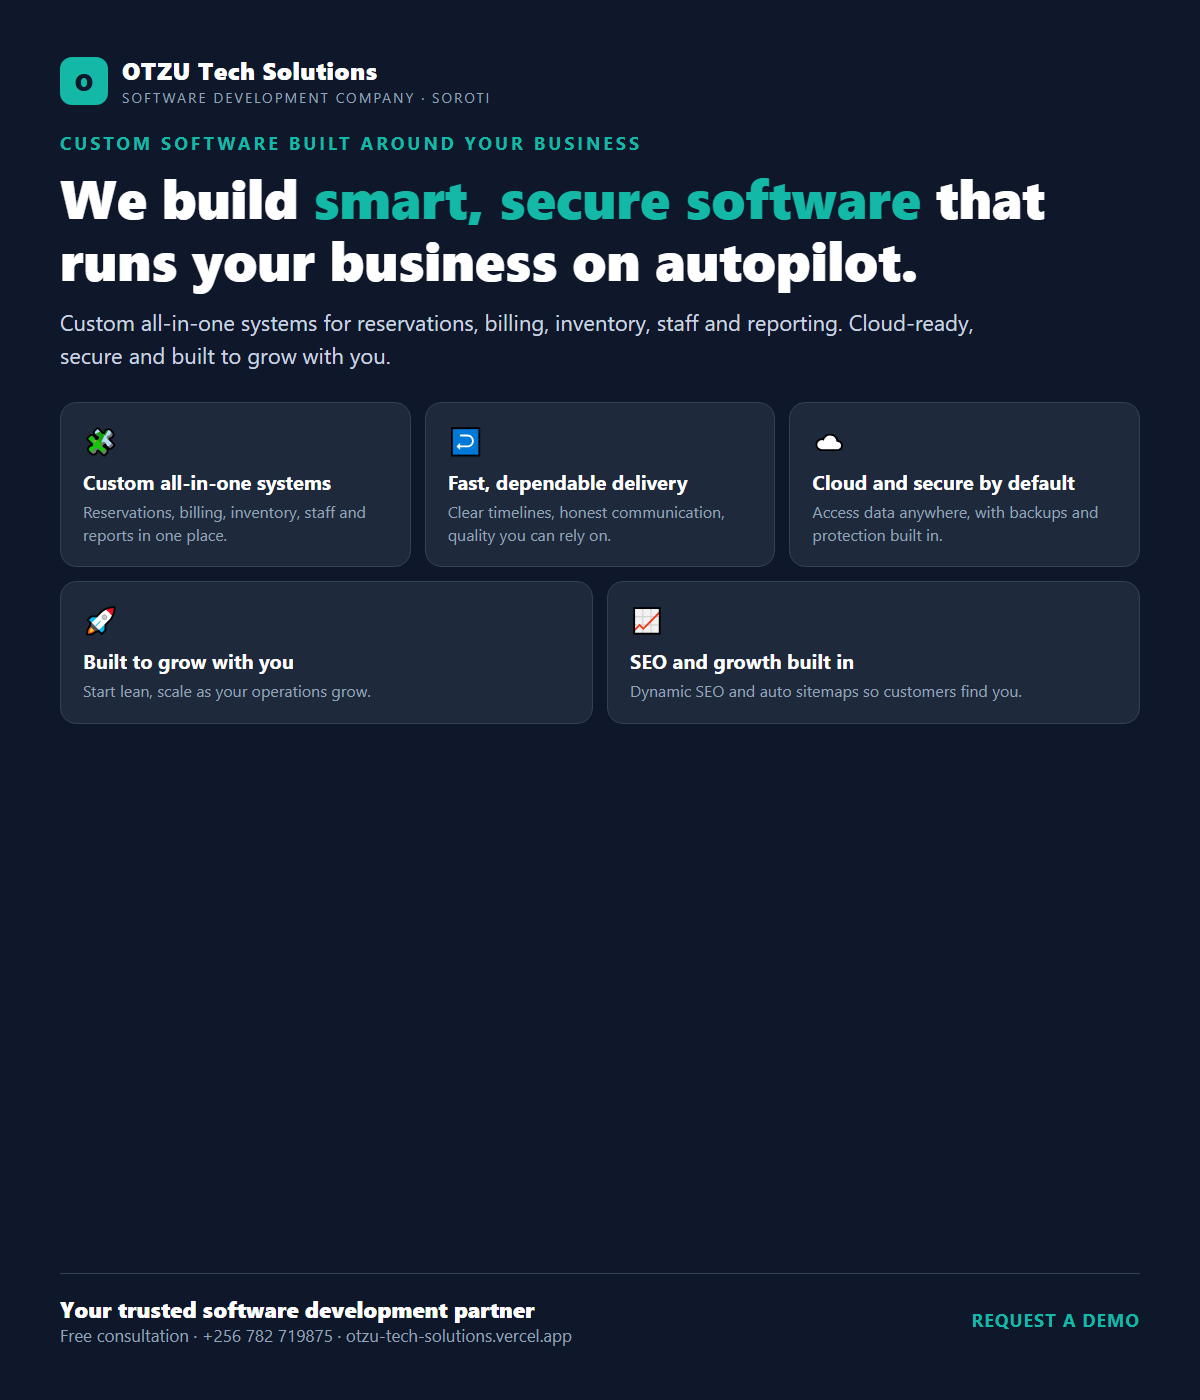
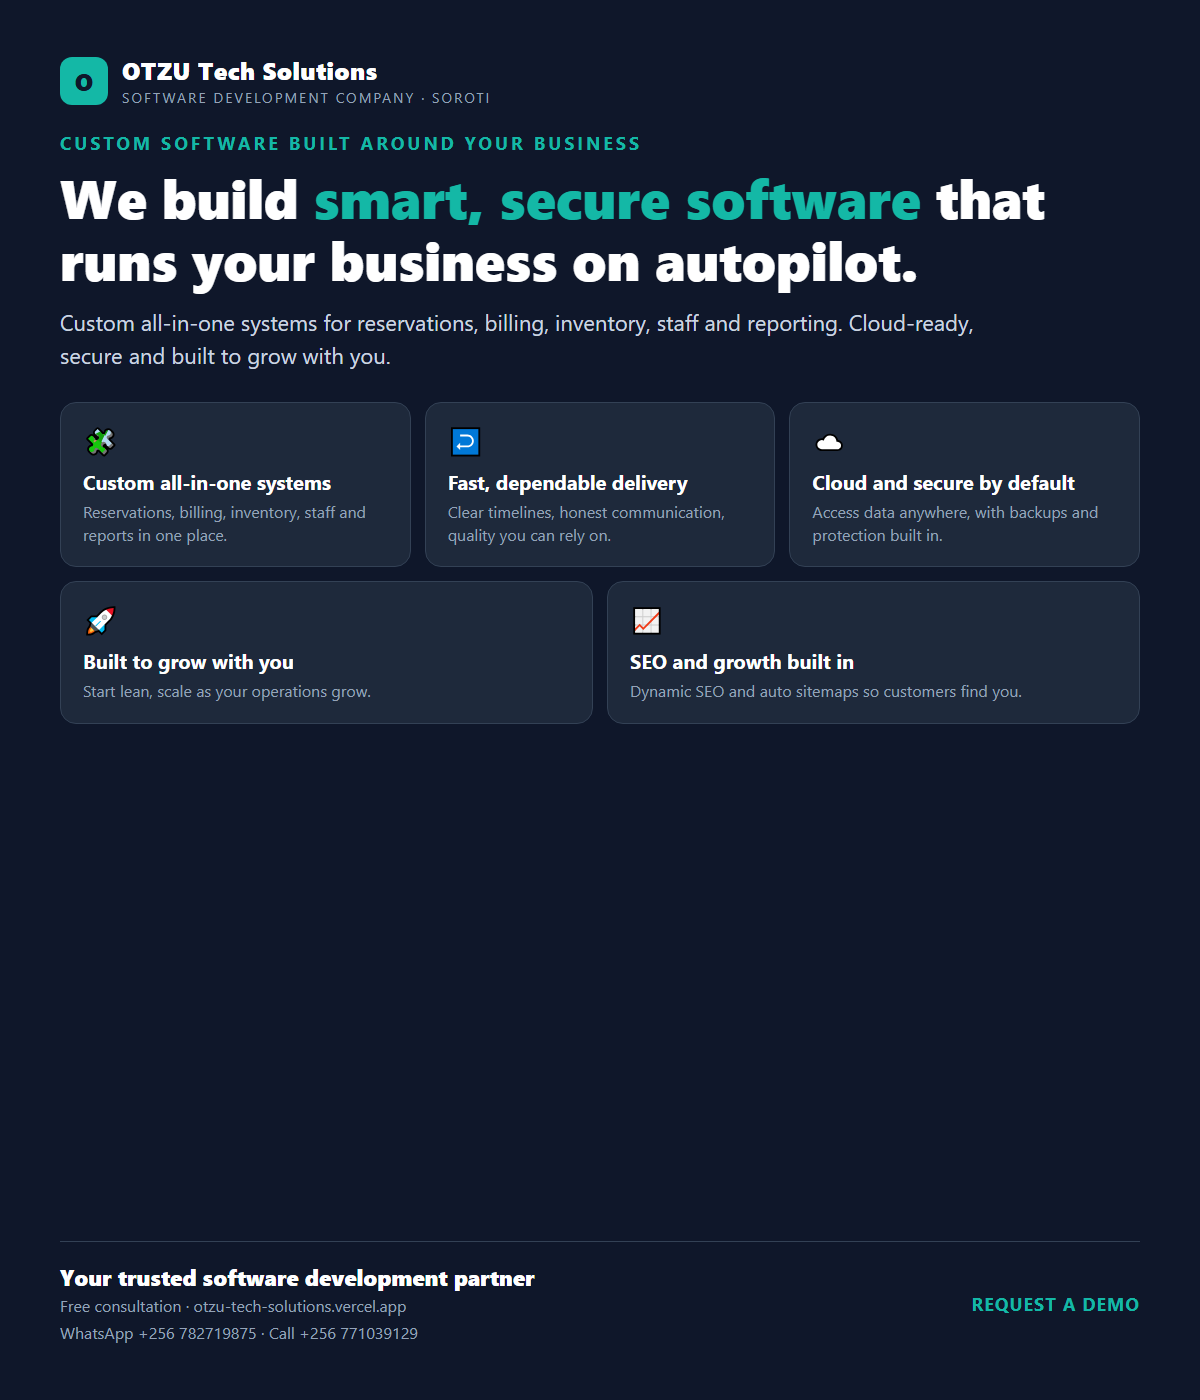
content: add second contact number to all OTZU deliverables

Changed region(s): [[0.0308, 0.8907, 0.4625, 0.9829], [0.8017, 0.9214, 0.9558, 0.9521]]

diff --git a/content/posts/2026-09-15-otzu-software-company-graphic.html b/content/posts/2026-09-15-otzu-software-company-graphic.html
@@ -38,7 +38,7 @@
   .card .cd { font-size: 16px; color: #94a3b8; margin-top: 5px; line-height: 1.45; }
   .footer { display: flex; align-items: center; justify-content: space-between; margin-top: 24px; padding-top: 20px; border-top: 1px solid #334155; }
   .author { font-size: 22px; font-weight: 800; }
-  .contact { font-size: 17px; color: #94a3b8; }
+  .contact { font-size: 16px; color: #94a3b8; line-height: 1.7; }
   .cta { font-size: 18px; font-weight: 700; color: #14b8a6; letter-spacing: 1px; text-transform: uppercase; }
 </style>
 </head>
@@ -70,7 +70,8 @@
   <div class="footer">
     <div>
       <div class="author">Your trusted software development partner</div>
-      <div class="contact">Free consultation &middot; +256 782 719875 &middot; otzu-tech-solutions.vercel.app</div>
+      <div class="contact">Free consultation &middot; otzu-tech-solutions.vercel.app</div>
+      <div class="contact">WhatsApp +256 782719875 &middot; Call +256 771039129</div>
     </div>
     <span class="cta">Request a demo</span>
   </div>

diff --git a/content/posts/2026-09-15-otzu-tech-graphic.html b/content/posts/2026-09-15-otzu-tech-graphic.html
@@ -76,7 +76,7 @@
   <div class="footer">
     <div>
       <div class="author">Guest House Management System</div>
-      <div class="contact">Request a free demo &middot; +256 782 719875</div>
+      <div class="contact">Free demo &middot; WhatsApp +256 782719875 &middot; Call +256 771039129</div>
     </div>
     <span class="cta">Book a free demo</span>
   </div>

diff --git a/content/posts/2026-09-15-otzu-tech-marketing.md b/content/posts/2026-09-15-otzu-tech-marketing.md
@@ -2,7 +2,7 @@
 
 Business: OTZU Tech Solutions (Soroti) builds custom, all-in-one business management
 systems. Flagship product: Guest House Management System (live at OTZU Guest House).
-Contact: +256 782719875, otim.no25@gmail.com, https://otzu-tech-solutions.vercel.app
+Contact: WhatsApp +256 782719875, call +256 771039129, otim.no25@gmail.com, https://otzu-tech-solutions.vercel.app
 
 ## Facebook version
 
@@ -26,7 +26,7 @@ We built it for our own guest house in Soroti before selling it to other busines
 
 If you run a guest house or small hotel, book a free demo. We reply within one business day.
 
-Message us here or at +256 782719875. What is the one task that wastes the most time at your property this week? We will show you where the system fixes it.
+Message us here, on WhatsApp +256 782719875, or call +256 771039129. What is the one task that wastes the most time at your property this week? We will show you where the system fixes it.
 ```
 
 ## LinkedIn version (optional, adapted)

diff --git a/content/posts/2026-09-15-otzu-software-company-captions.md b/content/posts/2026-09-15-otzu-software-company-captions.md
@@ -19,7 +19,7 @@ We build first for our own operations in Soroti, then for clients who want the s
 
 Your business deserves software that works around how you actually run things. Request a free consultation and we will show you what a system built for you looks like. We reply within one business day.
 
-DM or WhatsApp +256 782 719875. What is the one manual task that should have been automated years ago?
+WhatsApp +256 782719875 or call +256 771039129. What is the one manual task that should have been automated years ago?
 ```
 
 ## LinkedIn version

diff --git a/content/posts/2026-09-15-otzu-software-company-reel-script.md b/content/posts/2026-09-15-otzu-software-company-reel-script.md
@@ -28,7 +28,7 @@ OTZU Tech Solutions makes custom, all-in-one business systems. Reservations, bil
 
 We shipped our own system for a guest house in Soroti, and we build the same standard for other businesses.
 
-Free consultation. DM or WhatsApp +256 782 719875. www.otzu-tech-solutions.vercel.app
+Free consultation. WhatsApp +256 782719875 or call +256 771039129. www.otzu-tech-solutions.vercel.app
 
 ## Comment trigger
 Not applicable. No automated deliverable is configured, so no comment promise.

diff --git a/content/posts/2026-09-15-otzu-tech-reel-script.md b/content/posts/2026-09-15-otzu-tech-reel-script.md
@@ -27,7 +27,7 @@ We built one system that fixes it. Rooms, billing, inventory, SMS and profit rep
 
 We use it at our own property in Soroti.
 
-Free demo. DM or WhatsApp +256 782 719875. www.otzu-tech-solutions.vercel.app
+Free demo. WhatsApp +256 782719875 or call +256 771039129. www.otzu-tech-solutions.vercel.app
 
 ## Comment trigger
 Not applicable. No automated deliverable is configured, so no comment promise.
